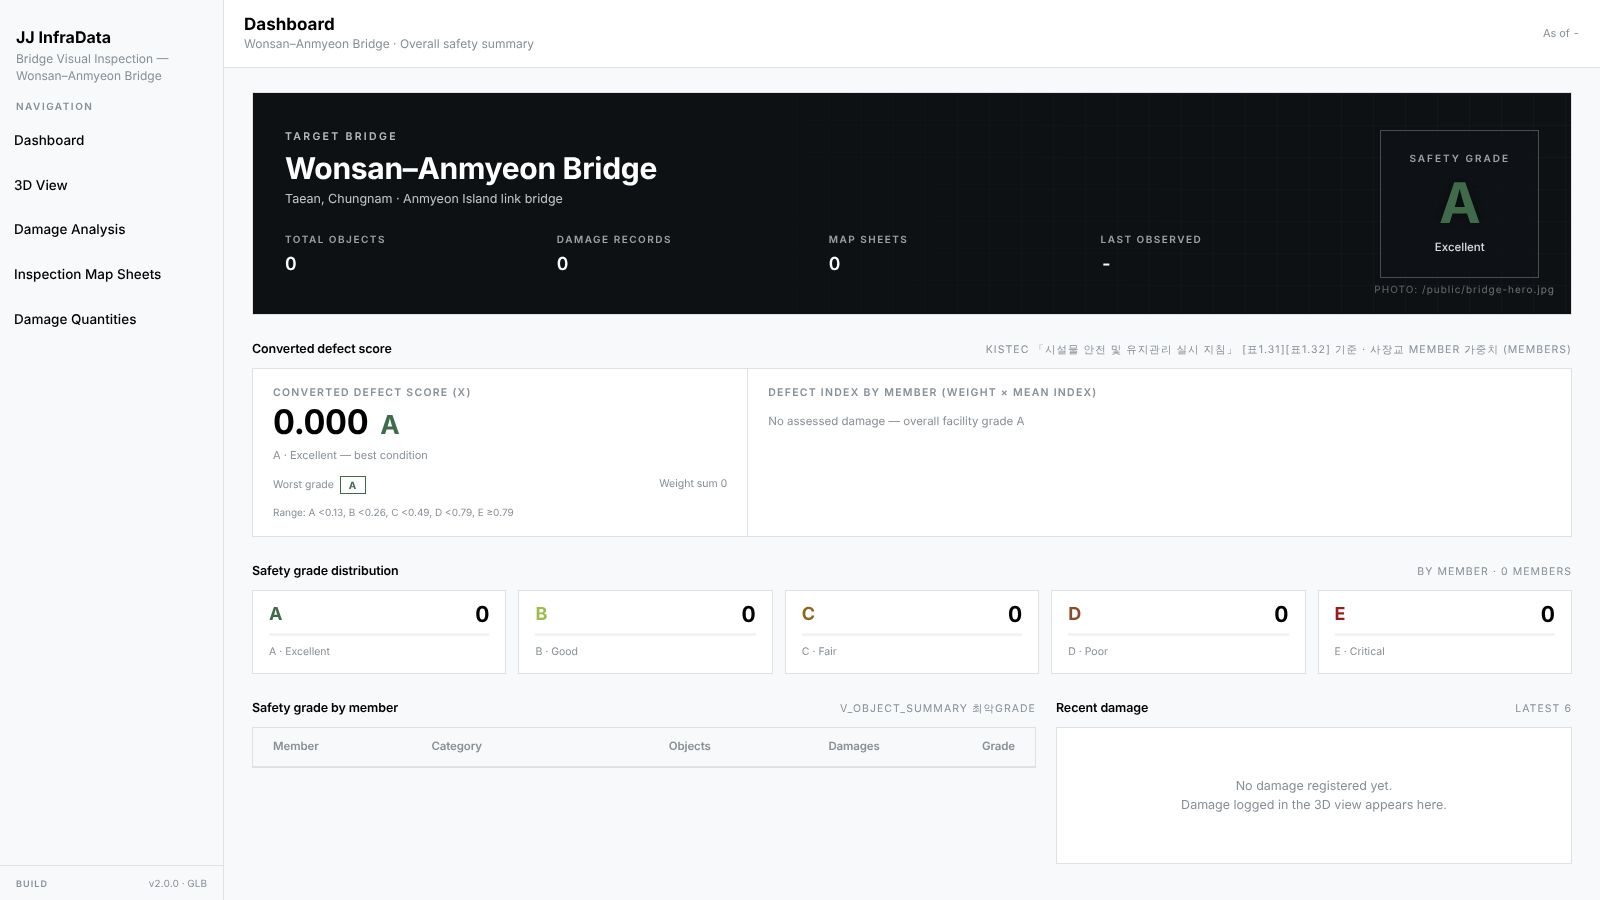
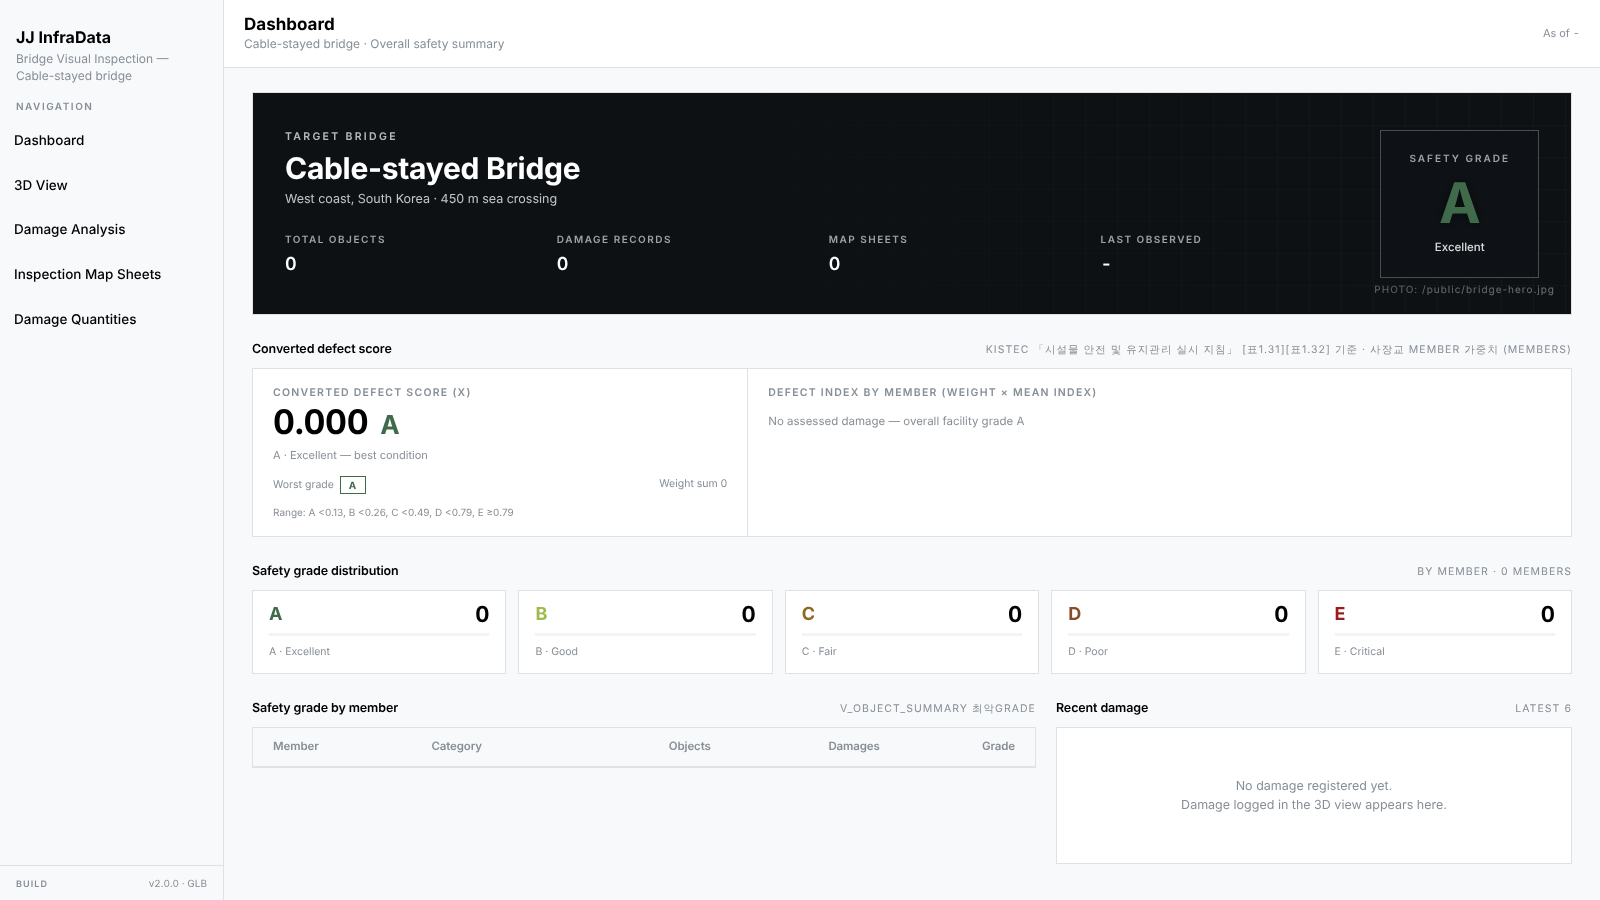
Drop the bridge name and make the hero bridge read against the backdrop
- The cable-stayed bridge is now described generically (450 m cable-stayed
  bridge, Korea): model name, slug, location fields, copy, alt text, OG
  image, README and the asset paths under public/models and public/renders
- App screens re-captured without the bridge name in the UI
- Hero: the source meshes become a lit, shaded stage that fills in during
  the BIM phase, the camera sits closer, and a dark radial pool behind the
  model keeps the wire backdrop from blending into the bridge

Claude-Session: https://claude.ai/code/session_01JqLAZ823Z4F2fdrj178nNZ

Changed region(s): [[0.1875, 0.1556, 0.4062, 0.2489], [0.1562, 0.0311, 0.3438, 0.0622], [0.0, 0.0622, 0.0938, 0.0933]]

diff --git a/src/components/Sections.tsx b/src/components/Sections.tsx
@@ -71,13 +71,13 @@ export function Work() {
 
         <article className={`card ${s.featured}`}>
           <Link href={`/models/${f.slug}`} className={s.featuredImage}>
-            <Image src={f.render} alt="Wireframe render of the Wonsan–Anmyeon Bridge: two diamond pylons on pile foundations, deck and 72 stay cables" fill sizes="(max-width: 900px) 100vw, 66vw" priority />
+            <Image src={f.render} alt="Wireframe render of the cable-stayed bridge: two diamond pylons on pile foundations, deck and 72 stay cables" fill sizes="(max-width: 900px) 100vw, 66vw" priority />
             <span className={`mono ${s.cornerTag}`}>Featured · Cable-stayed · LOD 400</span>
             <span className={`mono ${s.cornerStat}`}>1,452 meshes · 73 segments</span>
           </Link>
           <div className={s.featuredBody}>
             <p className="eyebrow" style={{ fontSize: 12 }}>
-              Taean, Korea
+              South Korea · sea crossing
             </p>
             <h3 className="display">{f.name}</h3>
             <p>
@@ -125,7 +125,7 @@ export function Work() {
         <div className="grid">
           <figure className={`card card--ground ${s.figure}`}>
             <a href={APP_MODEL_URL} target="_blank" rel="noreferrer">
-              <Image src="/renders/app-en-3dview.png" alt="JJ InfraData inspection web app, 3D View page: member tree with pylons, foundations, deck and girders, cables, bearings and furniture beside the Wonsan–Anmyeon Bridge model" width={1600} height={900} style={{ objectPosition: "0 0" }} />
+              <Image src="/renders/app-en-3dview.png" alt="JJ InfraData inspection web app, 3D View page: member tree with pylons, foundations, deck and girders, cables, bearings and furniture beside the cable-stayed bridge model" width={1600} height={900} style={{ objectPosition: "0 0" }} />
             </a>
             <figcaption>
               <strong>Live in the inspection web app.</strong> The same 1,452-mesh model drives the JJ InfraData 3D View: a member tree that isolates any of the 73 segments, a condition-grade heatmap and damage markers.{" "}
@@ -135,13 +135,13 @@ export function Work() {
             </figcaption>
           </figure>
           <figure className={`card card--ground ${s.figure}`}>
-            <Image src="/renders/wonsan-pylon-segments.png" alt="Pylon PY1 alone, its 32 parts tinted alternately so each segment reads as its own object" width={1200} height={900} style={{ objectPosition: "50% 40%" }} />
+            <Image src="/renders/pylon-segments.png" alt="Pylon PY1 alone, its 32 parts tinted alternately so each segment reads as its own object" width={1200} height={900} style={{ objectPosition: "50% 40%" }} />
             <figcaption>
               <strong>By member, by segment.</strong> Pylon PY1 on its own: 32 parts, each its own object with an elevation range, so any member or any segment can be isolated, measured and visualized.
             </figcaption>
           </figure>
           <figure className={`card card--ground ${s.figure}`}>
-            <Image src="/renders/wonsan-pylon-damage.png" alt="Damage markers for a crack, spalling, leakage and rebar exposure drawn on the 3D faces of pylon PY1, with an inspection record panel listing each one with its size and grade" width={1200} height={900} style={{ objectPosition: "50% 45%" }} />
+            <Image src="/renders/pylon-damage.png" alt="Damage markers for a crack, spalling, leakage and rebar exposure drawn on the 3D faces of pylon PY1, with an inspection record panel listing each one with its size and grade" width={1200} height={900} style={{ objectPosition: "50% 45%" }} />
             <figcaption>
               <strong>Damage on the surface, records behind it.</strong> Inspectors mark cracks, spalls and leaks directly on the 3D faces; every marker opens its inspection record (type, size, grade, photo, date) and feeds the map sheets.
             </figcaption>
@@ -168,7 +168,7 @@ export function Work() {
           ))}
         </div>
         <div className={s.footLine}>
-          <p className="mono">10 bridges · Korea and Indiana · every model delivered as GLB, the Wonsan–Anmyeon twin also as IFC4</p>
+          <p className="mono">10 bridges · Korea and Indiana · every model delivered as GLB, the cable-stayed twin also as IFC4</p>
           <Link href="/models" className="link">
             Open the model library →
           </Link>
@@ -198,7 +198,7 @@ export function HowItWorks() {
               To 3D Digital Twin
             </h2>
           </div>
-          <p className="section__lede">The pipeline we ran on the Wonsan–Anmyeon Bridge. Each step leaves a file you can open: a parameter table, a viewer, a measurement JSON, an IFC.</p>
+          <p className="section__lede">The pipeline we ran on a 450 m cable-stayed bridge in Korea. Each step leaves a file you can open: a parameter table, a viewer, a measurement JSON, an IFC.</p>
         </div>
         <ol className={s.steps}>
           {steps.map(([title, body, tag], i) => (
@@ -224,7 +224,7 @@ export function Software() {
             <p className="eyebrow">Software</p>
             <h2 className="display">The twin is a working tool, not a render.</h2>
           </div>
-          <p className="section__lede">Bridge visual inspection platform built on the Wonsan–Anmyeon twin. Inspectors log damage on the 3D model; the system scores the structure.</p>
+          <p className="section__lede">Bridge visual inspection platform built on the cable-stayed bridge twin. Inspectors log damage on the 3D model; the system scores the structure.</p>
         </div>
         <article className={`card card--ground ${s.softwareMain}`}>
           <a href={APP_MODEL_URL} target="_blank" rel="noreferrer">
@@ -265,13 +265,12 @@ export function Software() {
           </article>
         </div>
         <p className={`mono ${s.note}`}>
-          English build:{" "}
           <a href={APP_URL} className="link" target="_blank" rel="noreferrer">
-            wonsan-webapp-en.vercel.app
+            Open the inspection app
           </a>{" "}
-          · 3D View at{" "}
+          · English build ·{" "}
           <a href={APP_MODEL_URL} className="link" target="_blank" rel="noreferrer">
-            /model
+            3D View
           </a>
         </p>
       </div>

diff --git a/src/components/HeroScene.tsx b/src/components/HeroScene.tsx
@@ -92,6 +92,15 @@ export default function HeroScene({ onPhase }: { onPhase?: (p: HeroPhase) => voi
 
     const group = new THREE.Group();
     scene.add(group);
+    // Lights for the shaded BIM stage; the cloud and edges are unlit.
+    scene.add(new THREE.AmbientLight(0xffffff, 0.7));
+    scene.add(new THREE.HemisphereLight(0xdfe6ff, 0x1a1e33, 1.1));
+    const key = new THREE.DirectionalLight(0xffffff, 1.6);
+    key.position.set(1, 2, 1.2);
+    scene.add(key);
+    const fillLight = new THREE.DirectionalLight(0x9fb5ff, 0.5);
+    fillLight.position.set(-1.5, 0.6, -1);
+    scene.add(fillLight);
 
     const loader = new GLTFLoader();
     loader.setMeshoptDecoder(MeshoptDecoder);
@@ -115,6 +124,19 @@ export default function HeroScene({ onPhase }: { onPhase?: (p: HeroPhase) => voi
       side: THREE.DoubleSide,
       depthWrite: false,
     });
+    // Shaded faces that fill in once the BIM elements are built, so the bridge reads as a solid
+    // light object against the navy backdrop instead of a cloud the same colour as the page.
+    const fillMat = new THREE.MeshStandardMaterial({
+      color: 0xd6dbe8,
+      roughness: 0.85,
+      metalness: 0.05,
+      flatShading: true,
+      transparent: true,
+      opacity: 0,
+      polygonOffset: true,
+      polygonOffsetFactor: 1,
+      polygonOffsetUnits: 1,
+    });
     let scanPlane: THREE.Mesh | null = null;
     let radius = 1;
     let xHalf = 1;
@@ -133,7 +155,7 @@ export default function HeroScene({ onPhase }: { onPhase?: (p: HeroPhase) => voi
     async function build() {
       const meshes: THREE.Mesh[] = [];
       for (const f of FILES) {
-        const gltf = await loader.loadAsync(`/models/wonsan/${f}`);
+        const gltf = await loader.loadAsync(`/models/cable-stayed/${f}`);
         gltf.scene.updateMatrixWorld(true);
         gltf.scene.traverse((n) => {
           if ((n as THREE.Mesh).isMesh) meshes.push(n as THREE.Mesh);
@@ -237,8 +259,13 @@ export default function HeroScene({ onPhase }: { onPhase?: (p: HeroPhase) => voi
         edgeGroup.add(ls);
       });
       scene.add(edgeGroup);
-      // Hide the source meshes; the cloud and edges are the picture.
-      meshes.forEach((m) => (m.visible = false));
+      // The source meshes become the shaded stage; hidden until the BIM phase.
+      meshes.forEach((m) => {
+        const g = m.geometry as THREE.BufferGeometry;
+        if (!g.getAttribute("normal")) g.computeVertexNormals();
+        m.material = fillMat;
+      });
+      group.visible = false;
 
       // Scan plane sweeping along the deck.
       const along = size.z >= size.x ? "z" : "x";
@@ -262,7 +289,7 @@ export default function HeroScene({ onPhase }: { onPhase?: (p: HeroPhase) => voi
       scene.add(grid);
 
       // Camera: three-quarter view, slightly above deck level.
-      const dist = (radius / Math.sin((camera.fov * Math.PI) / 360)) * 0.66;
+      const dist = (radius / Math.sin((camera.fov * Math.PI) / 360)) * 0.58;
       camera.position.set(dist * 0.78, dist * 0.3, dist * 0.55);
       camera.near = dist / 100;
       camera.far = dist * 20;
@@ -276,37 +303,52 @@ export default function HeroScene({ onPhase }: { onPhase?: (p: HeroPhase) => voi
         frame = requestAnimationFrame(tick);
         const t = reduceMotion ? 0.7 : (((performance.now() - start) / 1000) % LOOP_SECONDS) / LOOP_SECONDS;
 
-        // 0–0.36 scan reveal · 0.36–0.5 edges build, cloud dims · 0.56–0.92 pins · 0.92–1 fade
+        // 0–0.36 scan reveal · 0.36–0.5 edges build · 0.5–0.62 shaded faces fill in · 0.62–0.92 pins · 0.92–1 fade
         let reveal: number;
         let edgeOp: number;
         let cloudOp: number;
         let scanOp: number;
+        let fillOp: number;
         if (t < 0.36) {
           reveal = -1.15 + (t / 0.36) * 2.4;
           edgeOp = 0;
           cloudOp = 1;
+          fillOp = 0;
           scanOp = t < 0.02 ? t / 0.02 : t > 0.34 ? (0.36 - t) / 0.02 : 1;
         } else if (t < 0.5) {
           const k = (t - 0.36) / 0.14;
           reveal = 1.3;
-          edgeOp = k * 0.75;
-          cloudOp = 1 - k * 0.6;
+          edgeOp = k * 0.85;
+          cloudOp = 1 - k * 0.35;
+          fillOp = 0;
+          scanOp = 0;
+        } else if (t < 0.62) {
+          const k = (t - 0.5) / 0.12;
+          reveal = 1.3;
+          edgeOp = 0.85 - k * 0.3;
+          cloudOp = 0.65 - k * 0.45;
+          fillOp = k;
           scanOp = 0;
         } else if (t < 0.92) {
           reveal = 1.3;
-          edgeOp = 0.75;
-          cloudOp = 0.4;
+          edgeOp = 0.55;
+          cloudOp = 0.2;
+          fillOp = 1;
           scanOp = 0;
         } else {
           const k = (t - 0.92) / 0.08;
           reveal = 1.3;
-          edgeOp = 0.75 * (1 - k);
-          cloudOp = 0.4 * (1 - k);
+          edgeOp = 0.55 * (1 - k);
+          cloudOp = 0.2 * (1 - k);
+          fillOp = 1 - k;
           scanOp = 0;
         }
         pointsUniforms.uReveal.value = reveal;
         pointsUniforms.uOpacity.value = cloudOp;
         lineMat.opacity = edgeOp;
+        fillMat.opacity = fillOp;
+        fillMat.transparent = fillOp < 0.999;
+        group.visible = fillOp > 0.01;
         scanMat.opacity = scanOp * 0.16;
         (scanEdge.material as THREE.LineBasicMaterial).opacity = scanOp * 0.9;
         if (scanPlane) {

diff --git a/src/data/models.ts b/src/data/models.ts
@@ -20,24 +20,24 @@ export type BridgeModel = {
 
 export const models: BridgeModel[] = [
   {
-    slug: "wonsan-anmyeon",
-    name: "Wonsan–Anmyeon Bridge (Solbit Bridge)",
+    slug: "cable-stayed-bridge",
+    name: "Cable-stayed Bridge, Korea",
     region: "Korea",
-    county: "Taean, Chungcheongnam-do",
-    crosses: "Cheonsu Bay",
+    county: "West coast, South Korea",
+    crosses: "Tidal sea channel",
     type: "Two-pylon steel–concrete composite cable-stayed bridge",
     typeTag: "cable-stayed",
     meshes: 1452,
     lengthNote: "104.68 + 240 + 104.68 m · pylons 105 m",
     coverage: "complete",
-    render: "/renders/wonsan-anmyeon.png",
+    render: "/renders/cable-stayed-bridge.png",
     files: [
-      "wonsan/PY1.glb",
-      "wonsan/PY2.glb",
-      "wonsan/DECK.glb",
-      "wonsan/CABLES.glb",
-      "wonsan/BEARINGS.glb",
-      "wonsan/FURNITURE.glb",
+      "cable-stayed/PY1.glb",
+      "cable-stayed/PY2.glb",
+      "cable-stayed/DECK.glb",
+      "cable-stayed/CABLES.glb",
+      "cable-stayed/BEARINGS.glb",
+      "cable-stayed/FURNITURE.glb",
     ],
     summary:
       "Modeled segment by segment from the drawings and site photographs: two diamond pylons in 32 parts, 37 deck segments, 72 stay cables with guide pipes and dampers, bearings, wind shoes and deck furniture. Delivered as GLB and semantic IFC4.",

diff --git a/src/app/models/page.tsx b/src/app/models/page.tsx
@@ -4,7 +4,7 @@ import ModelsWorkspace from "@/components/ModelsWorkspace";
 
 export const metadata: Metadata = {
   title: "3D model viewer — QBTTEXAS",
-  description: "Open the Wonsan–Anmyeon Bridge twin and nine Indiana highway bridge models in the browser: shaded, wireframe or point cloud, with section cuts and element dimensions.",
+  description: "Open the 450 m cable-stayed bridge twin and nine Indiana highway bridge models in the browser: shaded, wireframe or point cloud, with section cuts and element dimensions.",
 };
 
 export default function ModelsPage() {

diff --git a/src/components/Hero.module.css b/src/components/Hero.module.css
@@ -85,6 +85,21 @@
   height: 560px;
 }
 
+/* a dark pool behind the model so the wire backdrop recedes and the bridge reads against it */
+.stage::before {
+  content: "";
+  position: absolute;
+  inset: -12% -8%;
+  z-index: 0;
+  pointer-events: none;
+  background: radial-gradient(ellipse 58% 56% at 54% 52%, rgba(6, 8, 18, 0.97) 0%, rgba(6, 8, 18, 0.7) 55%, rgba(6, 8, 18, 0) 100%);
+}
+
+.stage > * {
+  position: relative;
+  z-index: 1;
+}
+
 @media (max-width: 640px) {
   .stage {
     height: 420px;

diff --git a/src/components/Hero.tsx b/src/components/Hero.tsx
@@ -55,7 +55,7 @@ export default function Hero() {
         <div className={styles.stage} aria-hidden="true">
           <HeroScene onPhase={setPhase} />
           <div className={`mono ${styles.hud}`}>
-            <span>Wonsan–Anmyeon Bridge · cable-stayed</span>
+            <span>450 m cable-stayed bridge · Korea</span>
             <span>240k surface points · LOD 400</span>
             <span>IFC 4.3 · ±8 mm</span>
           </div>

diff --git a/src/app/layout.tsx b/src/app/layout.tsx
@@ -32,7 +32,7 @@ export const metadata: Metadata = {
     title: "QBTTEXAS LLC — Physical AI. Digital 3D World.",
     description:
       "AI that turns field capture into measurable digital twins of bridges, buildings and plants.",
-    images: ["/renders/wonsan-anmyeon.png"],
+    images: ["/renders/cable-stayed-bridge.png"],
   },
 };
 

diff --git a/README.md b/README.md
@@ -19,11 +19,11 @@ npm start
 |---|---|
 | `src/app/page.tsx` | Homepage: hero with a live point-cloud scene, services, work samples, how it works, software, capabilities, industries, proof, contact |
 | `src/app/models` | 3D model viewer page (`/models` and `/models/[slug]`): model library, shaded / wireframe / point-cloud modes, camera presets, section cut, click-to-measure |
-| `src/components/HeroScene.tsx` | Hero animation: the Wonsan–Anmyeon Bridge GLBs are sampled into ~240k surface points coloured by elevation (LiDAR style), revealed by a scan sweep, then the BIM edges build up and inspection pins appear |
+| `src/components/HeroScene.tsx` | Hero animation: the cable-stayed bridge GLBs are sampled into ~240k surface points coloured by elevation (LiDAR style), revealed by a scan sweep, then the BIM edges build up and inspection pins appear |
 | `src/components/ModelViewer.tsx` | Three.js viewer used by the models page (meshopt-compressed GLB, EdgesGeometry wireframe, clipping plane, raycast picking) |
 | `src/components/WarpedMesh.tsx` | The warped wire-grid backdrop; every section gets a different well centre and strength |
 | `src/data/models.ts` | Bridge catalogue: names, locations, structure types, files |
-| `public/models/wonsan` | Wonsan–Anmyeon Bridge, six measurement-based groups (pylons, deck, cables, bearings, furniture), meshopt |
+| `public/models/cable-stayed` | 450 m cable-stayed bridge in Korea, six measurement-based groups (pylons, deck, cables, bearings, furniture), meshopt |
 | `public/models/indiana` | Nine Indiana highway bridges from INDOT plan sets, meshopt-compressed GLB |
 | `public/renders` | Wireframe renders and product screenshots used on the homepage and as viewer thumbnails |
 
